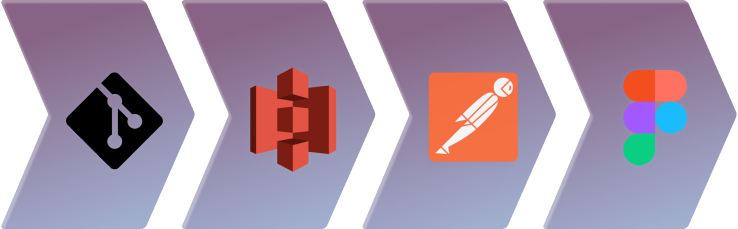
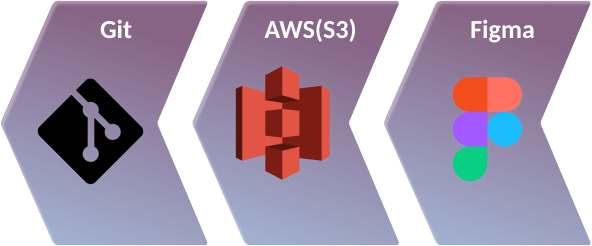
skills 이미지 수정

diff --git a/src/components/Skills/Skills.tsx b/src/components/Skills/Skills.tsx
@@ -1,11 +1,8 @@
-import styled from "styled-components";
-import starBar from "../../assets/png-file/star-bar.png";
-import languages from "../../assets/png-file/languages.png";
-import languagesTxt from "../../assets/png-file/languagesTxt.png";
-import frameLibraries from "../../assets/png-file/frame-libraries.png";
-import frameLibrariesTxt from "../../assets/png-file/frameLibrariesTxt.png";
-import others from "../../assets/png-file/others.png";
-import othersTxt from "../../assets/png-file/othersTxt.png";
+import styled from 'styled-components';
+import starBar from '../../assets/png-file/star-bar.png';
+import languages from '../../assets/png-file/languages.png';
+import frameLibraries from '../../assets/png-file/frame-libraries.png';
+import others from '../../assets/png-file/others.png';
 
 const SkillsBlock = styled.div`
   width: 100%;
@@ -119,19 +116,6 @@ const Languages = styled.div`
     background: no-repeat url(${languages});
     background-size: 579.5px 180px;
     display: flex;
-
-    .js {
-      padding: 9px 49.5px 0 30px;
-    }
-    .ts {
-      padding: 9px 47.5px 0 17px;
-    }
-    .html {
-      padding: 9px 64.5px 0 34px;
-    }
-    .css {
-      padding: 9px 72.5px 0 43px;
-    }
   }
 
   @media all and (min-width: 768px) and (max-width: 1023px) {
@@ -148,23 +132,6 @@ const Languages = styled.div`
       background: no-repeat url(${languages});
       background-size: cover;
       display: flex;
-
-      .js {
-        padding: 7px 0 0 19px;
-        font-size: 15px;
-      }
-      .ts {
-        padding: 7px 0 0 47px;
-        font-size: 15px;
-      }
-      .html {
-        padding: 7px 0 0 60px;
-        font-size: 15px;
-      }
-      .css {
-        padding: 7px 0 0 77px;
-        font-size: 15px;
-      }
     }
   }
 
@@ -176,28 +143,21 @@ const Languages = styled.div`
     .js-ts-html-css {
       width: 275px;
       height: 85px;
-      background: no-repeat url(${languagesTxt});
+      background: no-repeat url(${languages});
       background-size: cover;
       display: flex;
-
-      .js,
-      .ts,
-      .html,
-      .css {
-        display: none;
-      }
     }
   }
 `;
 
-const FrameAndLibraries = styled.div`
+const Others = styled.div`
   width: 427px;
   height: 221px;
 
   transform: translate(545px, -77px);
 
   .lilac-line {
-    width: 217px;
+    width: 64px;
     height: 2px;
     background-color: #f6f1f8;
     margin: 5px 0 13px auto;
@@ -210,23 +170,12 @@ const FrameAndLibraries = styled.div`
   .react-redux-styled {
     width: 426.09px;
     height: 176px;
-    background: no-repeat url(${frameLibraries});
+    background: no-repeat url(${others});
     background-size: 426.09px 176px;
   }
 
   .react-redux-styled {
     display: flex;
-
-    .react {
-      padding: 9px 0 0 65px;
-    }
-    .redux {
-      padding: 9px 0 0 95px;
-    }
-    .styled {
-      text-align: center;
-      padding: 9px 0 0 36px;
-    }
   }
 
   @media all and (min-width: 768px) and (max-width: 1023px) {
@@ -235,28 +184,15 @@ const FrameAndLibraries = styled.div`
     width: 329px;
 
     .lilac-line {
-      width: 170px;
+      width: 52px;
     }
 
     .react-redux-styled {
       width: 329.64px;
       height: 136px;
-      background: no-repeat url(${frameLibraries});
+      background: no-repeat url(${others});
       background-size: cover;
       display: flex;
-
-      .react {
-        padding: 8px 0 0 47px;
-        font-size: 15px;
-      }
-      .redux {
-        padding: 8px 0 0 71px;
-        font-size: 15px;
-      }
-      .styled {
-        padding: 8px 0 0 25px;
-        font-size: 14px;
-      }
     }
   }
 
@@ -266,34 +202,28 @@ const FrameAndLibraries = styled.div`
     height: 221px;
 
     .lilac-line {
-      width: 150px;
+      width: 46px;
     }
 
     .react-redux-styled {
       transform: translate(118px, 0);
       width: 206px;
       height: 85px;
-      background: no-repeat url(${frameLibrariesTxt});
+      background: no-repeat url(${others});
       background-size: cover;
       display: flex;
-
-      .react,
-      .redux,
-      .styled {
-        display: none;
-      }
     }
   }
 `;
 
-const Others = styled.div`
+const FrameAndLibraries = styled.div`
   width: 581.5px;
   height: 225px;
 
   transform: translate(0, -155px);
 
   .lilac-line {
-    width: 63px;
+    width: 221px;
     height: 2px;
     background-color: #f6f1f8;
     margin: 5px 0 13px 0;
@@ -302,76 +232,39 @@ const Others = styled.div`
   .git-s3-postman-figma {
     width: 579.5px;
     height: 180px;
-    background: no-repeat url(${others});
+    background: no-repeat url(${frameLibraries});
     background-size: cover;
     display: flex;
-
-    .git {
-      padding: 9px 74.5px 0 56px;
-    }
-    .s3 {
-      padding: 9px 54.5px 0 24px;
-    }
-    .postman {
-      padding: 9px 53.5px 0 23px;
-    }
-    .figma {
-      padding: 9px 63.5px 0 34px;
-    }
   }
 
   @media all and (min-width: 768px) and (max-width: 1023px) {
     width: 600px;
 
     .lilac-line {
-      width: 52px;
+      width: 170px;
     }
 
     .git-s3-postman-figma {
       width: 440px;
       height: 136px;
-      background: no-repeat url(${others});
+      background: no-repeat url(${frameLibraries});
       background-size: cover;
       display: flex;
-
-      .git {
-        padding: 8px 0 0 42px;
-        font-size: 15px;
-      }
-      .s3 {
-        padding: 8px 0 0 72px;
-        font-size: 15px;
-      }
-      .postman {
-        padding: 8px 0 0 54px;
-        font-size: 15px;
-      }
-      .figma {
-        padding: 8px 0 0 62px;
-        font-size: 15px;
-      }
     }
   }
 
   @media all and (max-width: 767px) {
     .lilac-line {
-      width: 46px;
+      width: 152px;
     }
 
     .git-s3-postman-figma {
       width: 275px;
       height: 85px;
-      background: no-repeat url(${othersTxt});
+      background: no-repeat url(${frameLibraries});
       background-size: cover;
       display: flex;
       justify-content: space-between;
-
-      .git,
-      .s3,
-      .postman,
-      .figma {
-        display: none;
-      }
     }
   }
 `;
@@ -388,34 +281,20 @@ const Skills = () => {
         <Languages>
           <p className="skills-bold">Programming Languages</p>
           <div className="lilac-line"></div>
-          <div className="js-ts-html-css">
-            <p className="js">Javascript</p>
-            <p className="ts">Typescript</p>
-            <p className="html">HTML</p>
-            <p className="css">CSS</p>
-          </div>
+          <div className="js-ts-html-css"></div>
         </Languages>
 
-        <FrameAndLibraries>
-          <p className="skills-bold frame">Frameworks & Libraries</p>
-          <div className="lilac-line"></div>
-          <div className="react-redux-styled">
-            <p className="react">React</p>
-            <p className="redux">Redux</p>
-            <p className="styled">Styled- Components</p>
-          </div>
-        </FrameAndLibraries>
-
         <Others>
-          <p className="skills-bold">Others</p>
+          <p className="skills-bold frame">Others</p>
           <div className="lilac-line"></div>
-          <div className="git-s3-postman-figma">
-            <p className="git">Git</p>
-            <p className="s3">AWS(S3)</p>
-            <p className="postman">Postman</p>
-            <p className="figma">Figma</p>
-          </div>
+          <div className="react-redux-styled"></div>
         </Others>
+
+        <FrameAndLibraries>
+          <p className="skills-bold">Frameworks & Libraries</p>
+          <div className="lilac-line"></div>
+          <div className="git-s3-postman-figma"></div>
+        </FrameAndLibraries>
       </RealSkillsBlock>
     </SkillsBlock>
   );
